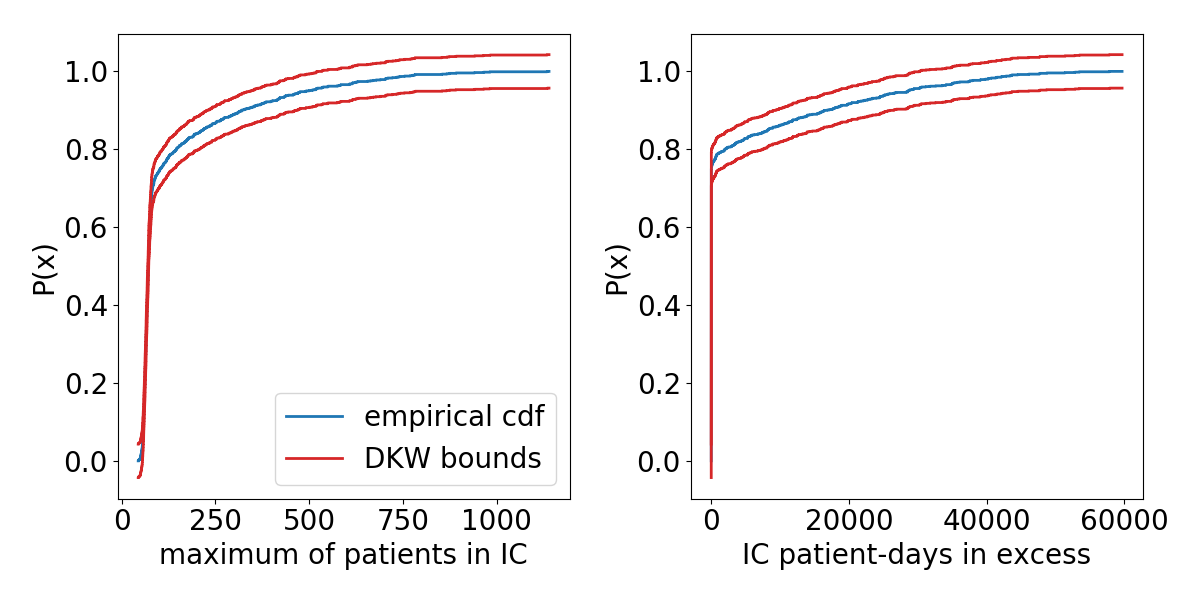
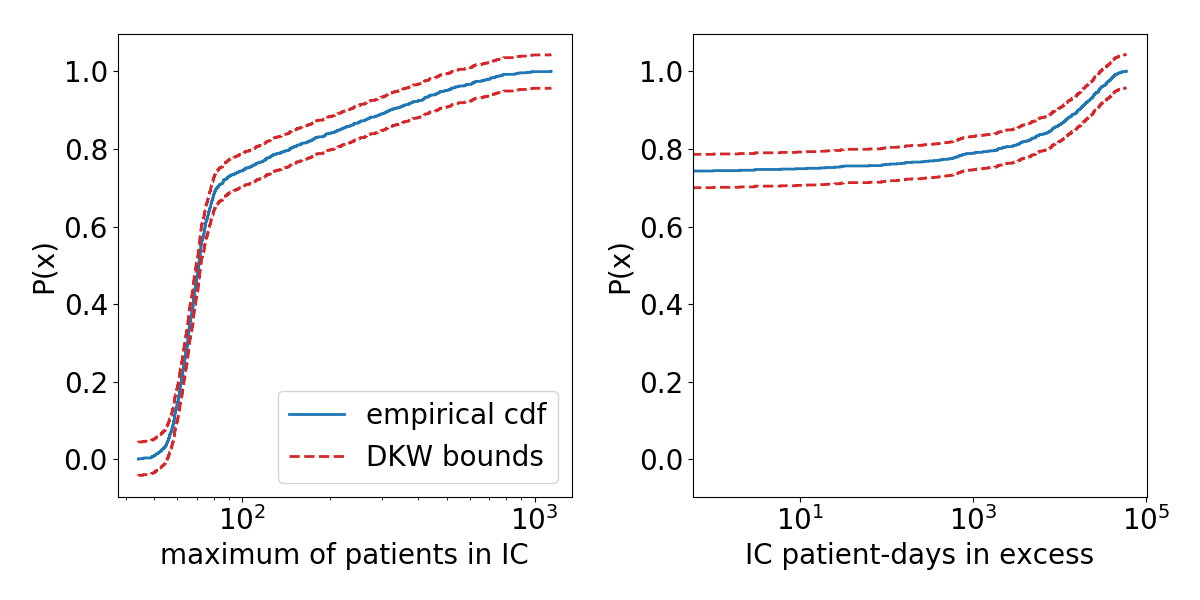
include log x-scale

diff --git a/EasyVVUQ/cdf_post_proc_corona.py b/EasyVVUQ/cdf_post_proc_corona.py
@@ -92,11 +92,13 @@ ax_p.step(IC_prev_avg_max,p,lw=2,label='empirical cdf')
 ax_p.step(IC_prev_avg_max,p+eps_DKW,linestyle='--',lw=2,color='tab:red',label='DKW bounds')
 ax_p.step(IC_prev_avg_max,p-eps_DKW,linestyle='--',lw=2,color='tab:red')
 #ax_p.axvline(x=IC_capacity,color='tab:orange')
+ax_p.set_xscale('log')
 
 ax_e = f.add_subplot(122, xlabel='IC patient-days in excess', ylabel='P(x)')
 ax_e.step(IC_ex_max,p,lw=2)
 ax_e.step(IC_ex_max,p+eps_DKW,linestyle='--',lw=2,color='tab:red')
 ax_e.step(IC_ex_max,p-eps_DKW,linestyle='--',lw=2,color='tab:red')
+ax_e.set_xscale('log')
 
 ax_p.legend(loc='best')
 plt.tight_layout()
